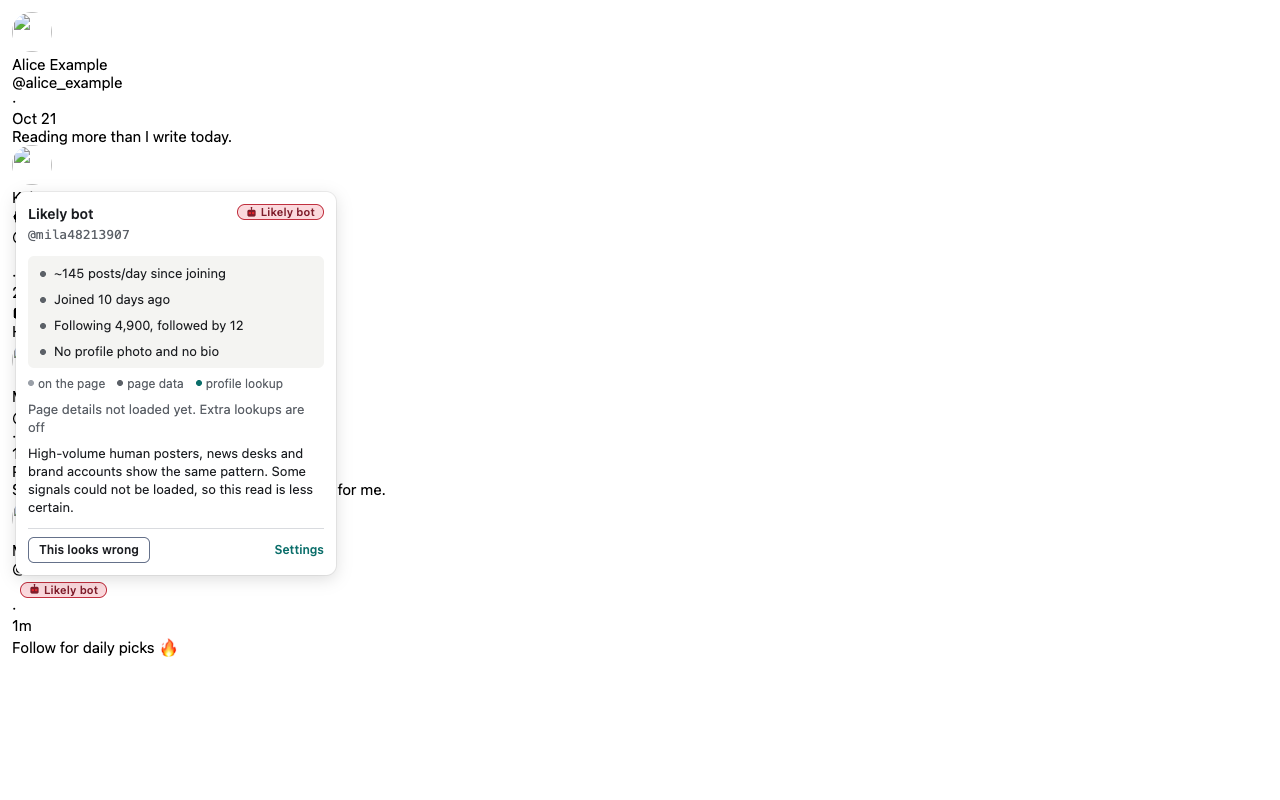
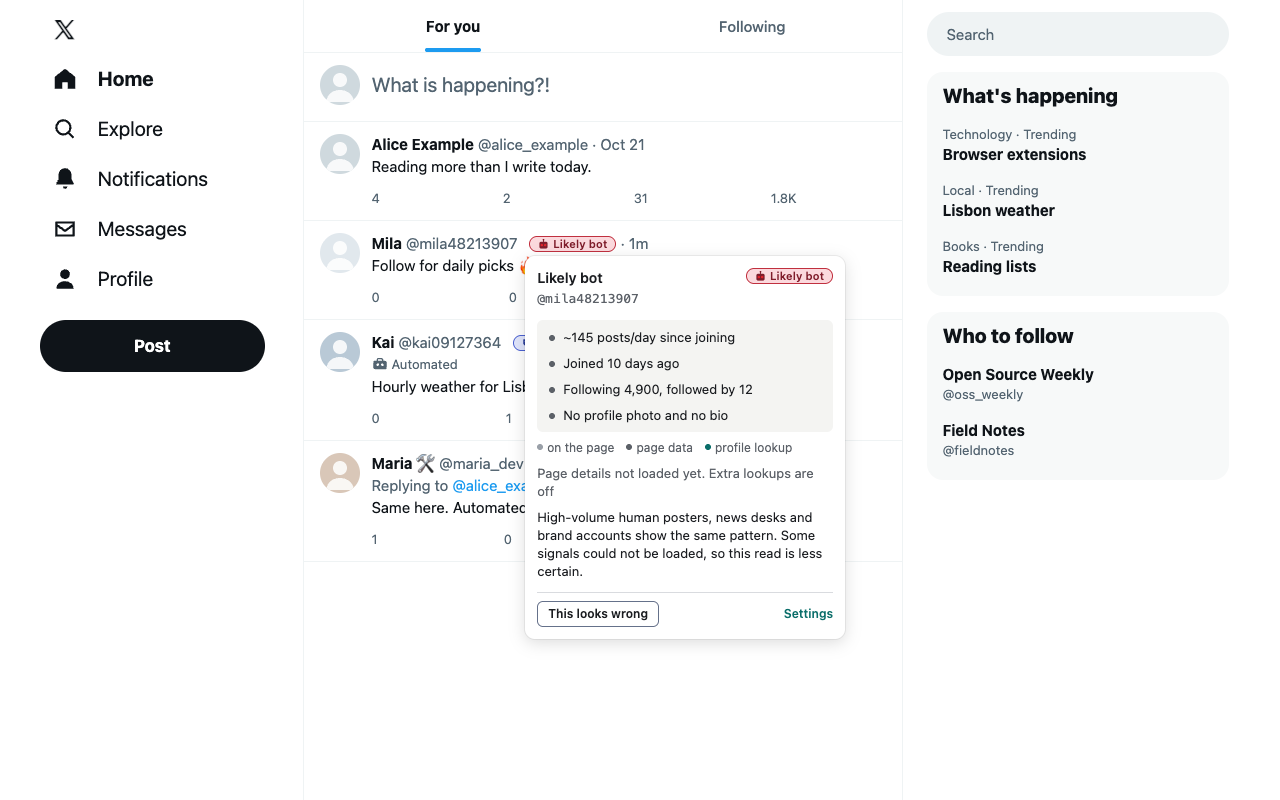
Regenerate the store screenshots
All five captures now come from the realistic store pages with the real badge and hover card, and the
popup and options captures show a fetched, verified policy. The README notes where the pages come from.

diff --git a/store/screenshots/README.md b/store/screenshots/README.md
@@ -26,7 +26,11 @@ Regenerate all five with:
 pnpm build && pnpm smoke -- --only store --viewport 1280x800 --out store/screenshots
 ```
 
-then delete the `popup-alone.png` and `manifest.json` it also writes. Each file is 1280x800 at
+The three feed captures are served from `tests/fixtures/store/` (realistic pages with the same authors
+as the recorded fixtures); the popup and options captures seed a fetched policy first, so they read
+"Policy updated today" and "Version 1, signature verified".
+
+Then delete the `popup-alone.png` and `manifest.json` it also writes. Each file is 1280x800 at
 device scale 1, RGB without alpha.
 
 The Chrome Web Store also takes an optional 440x280 small promo tile and a 1400x560 marquee; make
